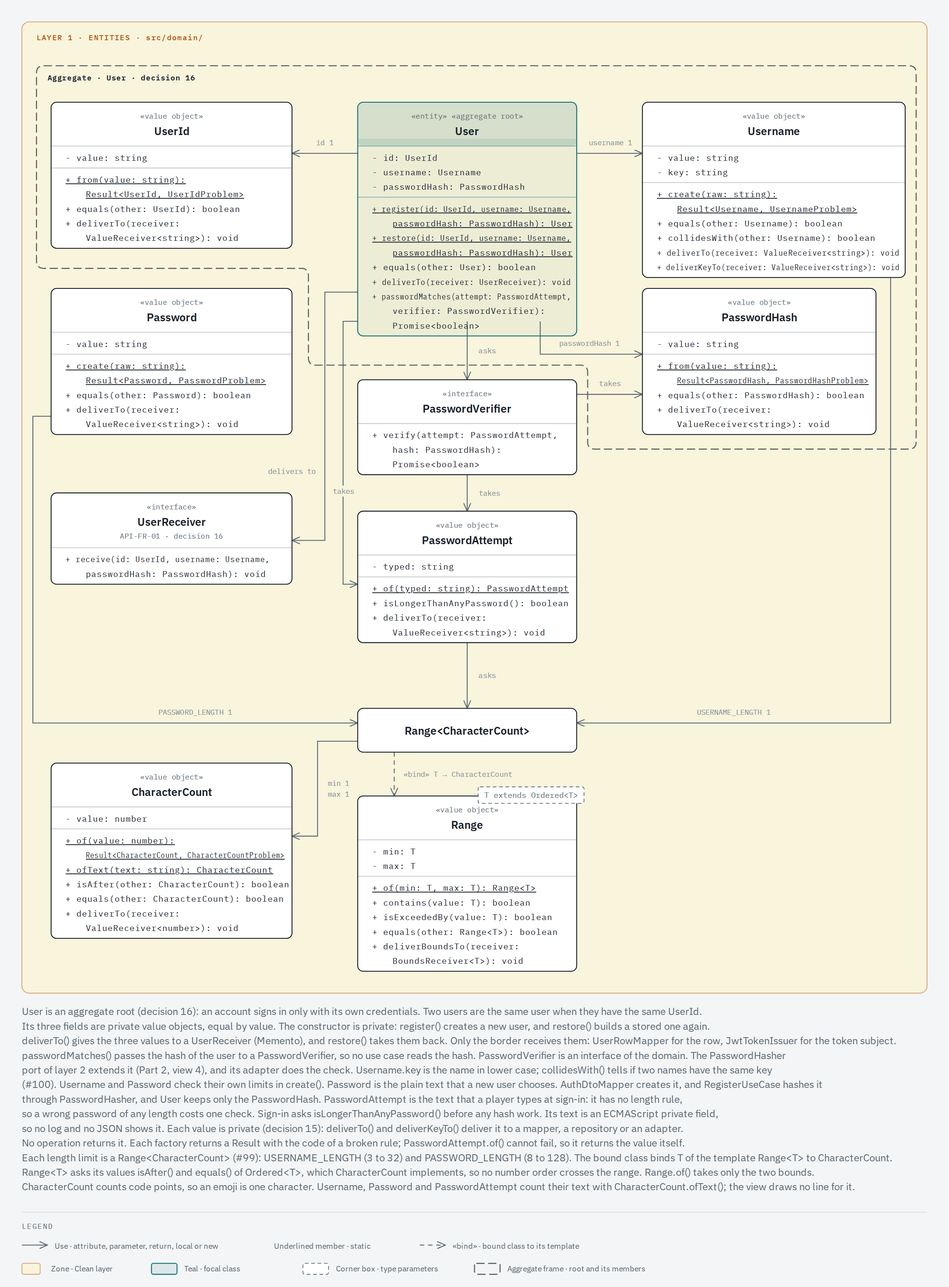
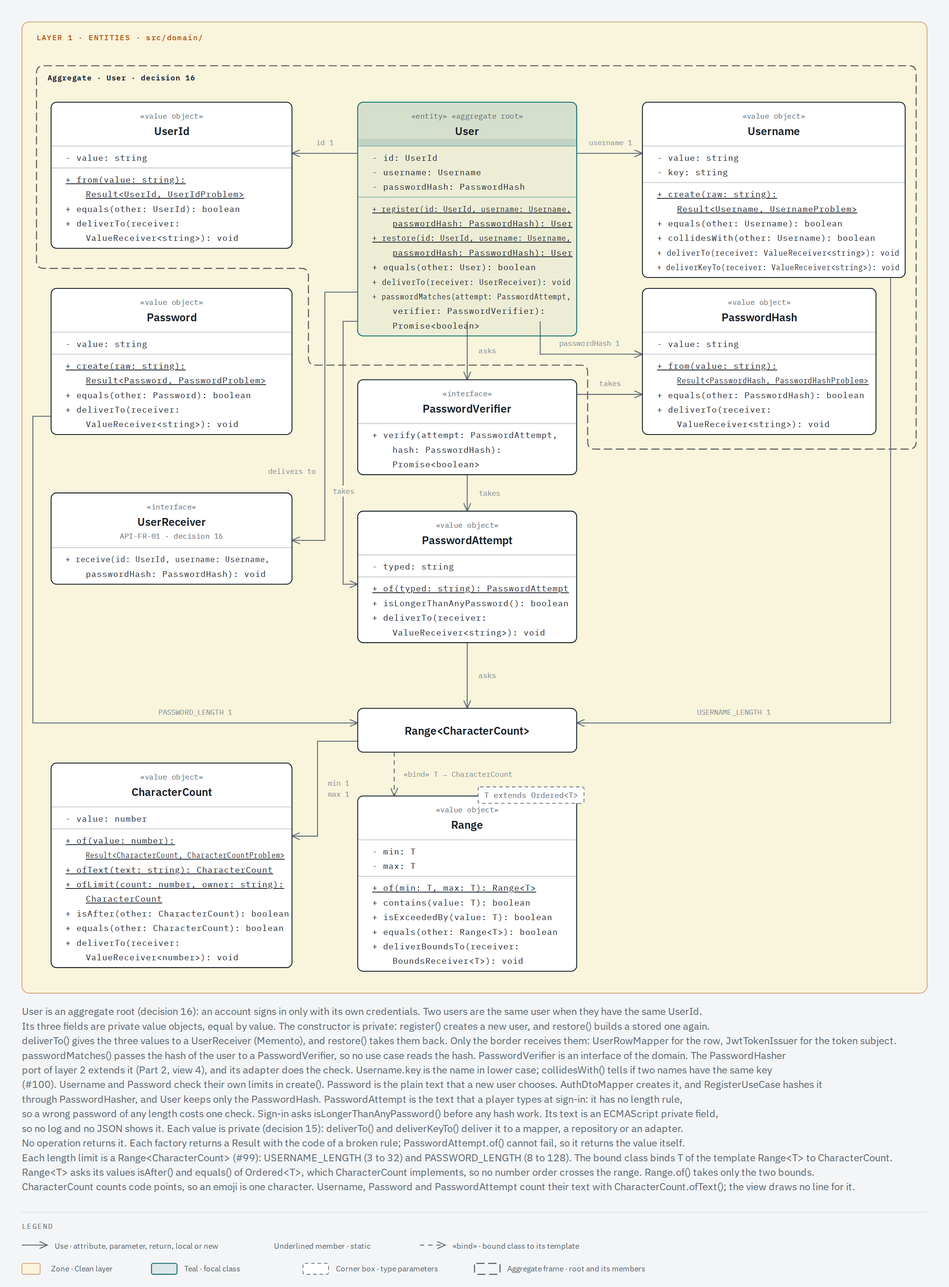
refactor: apply the open review suggestions of the queue of 2026-11-15
CharacterCount.ofLimit() is the one home of the limit helper that
username.ts and password.ts wrote twice. The leaderboard reader builds
its row message prefixes in one place, and SyncProgress drops the
outcome variable that a removed wrapper left. A new e2e test pins the
step by time of the per-level board. httpErrorOf keeps its switch: it
maps two problem kinds since #137.

Closes #142

Changed region(s): [[0.0312, 0.6873, 0.3125, 0.7498]]

diff --git a/docs/architecture/classes/views/domain-3-user.html b/docs/architecture/classes/views/domain-3-user.html
@@ -1119,7 +1119,7 @@
           x="56"
           y="836"
           width="264"
-          height="192"
+          height="224"
           rx="6"
           fill="#ffffff"
           stroke="#17212a"
@@ -1184,16 +1184,36 @@
         >
           + ofText(text: string): CharacterCount
         </text>
-        <text x="72" y="972" fill="#17212a" font-size="9" font-family="'IBM Plex Mono', monospace">
-          + isAfter(other: CharacterCount): boolean
+        <text
+          x="72"
+          y="972"
+          fill="#17212a"
+          font-size="9"
+          font-family="'IBM Plex Mono', monospace"
+          text-decoration="underline"
+        >
+          + ofLimit(count: number, owner: string):
         </text>
-        <text x="72" y="988" fill="#17212a" font-size="9" font-family="'IBM Plex Mono', monospace">
-          + equals(other: CharacterCount): boolean
+        <text
+          x="94"
+          y="988"
+          fill="#17212a"
+          font-size="9"
+          font-family="'IBM Plex Mono', monospace"
+          text-decoration="underline"
+        >
+          CharacterCount
         </text>
         <text x="72" y="1004" fill="#17212a" font-size="9" font-family="'IBM Plex Mono', monospace">
+          + isAfter(other: CharacterCount): boolean
+        </text>
+        <text x="72" y="1020" fill="#17212a" font-size="9" font-family="'IBM Plex Mono', monospace">
+          + equals(other: CharacterCount): boolean
+        </text>
+        <text x="72" y="1036" fill="#17212a" font-size="9" font-family="'IBM Plex Mono', monospace">
           + deliverTo(receiver:
         </text>
-        <text x="94" y="1020" fill="#17212a" font-size="9" font-family="'IBM Plex Mono', monospace">
+        <text x="94" y="1052" fill="#17212a" font-size="9" font-family="'IBM Plex Mono', monospace">
           ValueReceiver&lt;number&gt;): void
         </text>
         <!-- UML template box: the type parameter on the top-right corner -->

diff --git a/src/adapters/persistence/drizzle-leaderboard-reader.ts b/src/adapters/persistence/drizzle-leaderboard-reader.ts
@@ -38,7 +38,7 @@ export class DrizzleLeaderboardReader implements LeaderboardReader {
       );
     // The reader builds the four value objects of each stored result.
     return rows.map((row) => {
-      const stored = `The level_results rows of user ${row.userId}`;
+      const stored = rowsOf('level_results', row.userId);
       return {
         userId: storedValue(UserId.from(row.userId), stored),
         result: storedValue(buildLevelResult(row), stored),
@@ -54,7 +54,7 @@ export class DrizzleLeaderboardReader implements LeaderboardReader {
     // The where clause keeps no null. The check only narrows the type.
     return rows.flatMap(({ userId, highScore }) => {
       if (highScore === null) return [];
-      const stored = `The progress rows of user ${userId}`;
+      const stored = rowsOf('progress', userId);
       return [
         {
           userId: storedValue(UserId.from(userId), stored),
@@ -80,7 +80,7 @@ export class DrizzleLeaderboardReader implements LeaderboardReader {
       .where(eq(levelResults.gameId, receiveValueOf(gameId)))
       .groupBy(levelResults.userId);
     return rows.map(({ userId, stars, levelsCompleted, moves, elapsedMs }) => {
-      const stored = `The level_results rows of user ${userId}`;
+      const stored = rowsOf('level_results', userId);
       const standing = Standing.of(
         storedValue(Stars.of(stars), stored),
         storedValue(LevelsCompleted.of(levelsCompleted), stored),
@@ -93,4 +93,10 @@ export class DrizzleLeaderboardReader implements LeaderboardReader {
       };
     });
   }
+}
+
+// The rows of one user in one table, as storedValue() names them in the
+// message of a broken rule.
+function rowsOf(table: 'level_results' | 'progress', userId: string): string {
+  return `The ${table} rows of user ${userId}`;
 }

diff --git a/test/leaderboard.e2e-spec.ts b/test/leaderboard.e2e-spec.ts
@@ -100,6 +100,29 @@ describe('leaderboard endpoints (API-FR-03, API-FR-06)', () => {
     });
   });
 
+  // #142: DS-4 ranks a level by stars, then moves, then time. Two results
+  // with the same stars and moves rank by time through the wiring: the
+  // faster player ranks first, and the two players share no rank.
+  it('should_rank_the_faster_player_first_when_two_level_results_tie_on_stars_and_moves', async () => {
+    const ada = await signIn('ada');
+    const grace = await signIn('grace');
+    await storeLevels(testApp, levelJson('hexa-fit', 'fit-01'));
+    await sync(ada, { gameId: 'hexa-fit', results: [{ ...FIT_01, elapsedMs: 50000 }] });
+    await sync(grace, { gameId: 'hexa-fit', results: [{ ...FIT_01, elapsedMs: 40000 }] });
+
+    const level = await board(ada, '/leaderboard/hexa-fit/levels/fit-01');
+
+    expect(level.status).toBe(200);
+    expect(level.body).toEqual({
+      gameId: 'hexa-fit',
+      levelId: 'fit-01',
+      entries: [
+        { rank: 1, userId: grace.userId, stars: 3, moves: 12, elapsedMs: 40000 },
+        { rank: 2, userId: ada.userId, stars: 3, moves: 12, elapsedMs: 50000 },
+      ],
+    });
+  });
+
   // A board lists only the players who have a result to rank (decision of
   // #82). Fit gives no score, so nothing ranks Fit by score (S3-03).
   it('should_leave_the_fit_high_scores_empty_when_fit_players_sync_only_level_results', async () => {

diff --git a/src/domain/user/username.ts b/src/domain/user/username.ts
@@ -3,23 +3,16 @@ import { err, ok, type Result } from '../shared/result.js';
 import type { ValueReceiver } from '../shared/value-receiver.js';
 import { CharacterCount } from './character-count.js';
 
-// The value of a limit of this file. A limit is a fixed count, so a failed
-// Result is a defect of the code.
-function limit(count: number): CharacterCount {
-  const result = CharacterCount.of(count);
-  if (!result.ok) {
-    throw new RangeError(`A username limit breaks the rule ${result.error}.`);
-  }
-  return result.value;
-}
-
 // 3 to 32 letters, digits, dots, hyphens or underscores. A proposal for
 // team review: API-FR-01 sets no length or character rule. The range
 // delivers its bounds to the OpenAPI limits and the messages of the border.
 // USERNAME_CHARACTERS delivers the allowed characters to the OpenAPI pattern.
 // The HTTP adapter builds the pattern from both, so this module exports no
 // string (#99, #149).
-export const USERNAME_LENGTH = Range.of(limit(3), limit(32));
+export const USERNAME_LENGTH = Range.of(
+  CharacterCount.ofLimit(3, 'username'),
+  CharacterCount.ofLimit(32, 'username'),
+);
 
 // The allowed characters, as one character class of a regular expression.
 // This text is their only home: Username.create() checks it, and

diff --git a/src/application/progress/sync-progress.use-case.ts b/src/application/progress/sync-progress.use-case.ts
@@ -47,7 +47,6 @@ export class SyncProgressUseCase implements SyncProgress {
   async execute(request: SyncProgressRequest): Promise<Result<PlayerProgress, ProgressProblem>> {
     const { score, results } = request;
     const key = ProgressKey.of(request.userId, request.gameId);
-    let outcome: Result<PlayerProgress, ProgressProblem> | undefined;
     const saved = await this.progress.update(key, (stored) => {
       // The use case reads the Clock under the lock, so the instants follow
       // the order of the saves. The aggregate keeps updatedAt from moving
@@ -60,15 +59,15 @@ export class SyncProgressUseCase implements SyncProgress {
       for (const result of results) {
         progress.recordLevel(result, at);
       }
-      outcome = ok(progress);
       return progress;
     });
     if (!saved.ok) {
       return err({ kind: saved.error });
     }
-    if (outcome === undefined) {
-      throw new Error('ProgressRepository.update() must run the change.');
+    // The change never returns null, so a saved progress is always there.
+    if (saved.value === null) {
+      throw new Error('ProgressRepository.update() must save the change.');
     }
-    return outcome;
+    return ok(saved.value);
   }
 }

diff --git a/test/unit/domain/character-count.spec.ts b/test/unit/domain/character-count.spec.ts
@@ -41,6 +41,30 @@ describe('CharacterCount', () => {
     expect(deliveredBy(counted)).toEqual([value]);
   });
 
+  // #142: a limit of the code is a fixed count, such as a bound of
+  // USERNAME_LENGTH. Username and Password build their limits here.
+  it.each([0, 3, 128])('should_deliver_the_count_when_a_limit_is_a_valid_count', (value) => {
+    const limit = CharacterCount.ofLimit(value, 'username');
+
+    expect(limit).toBeInstanceOf(CharacterCount);
+    expect(deliveredBy(limit)).toEqual([value]);
+  });
+
+  // A limit that breaks the rule is a defect of the code (decision 11), so
+  // the factory throws. The message names the owner of the limit.
+  it.each([
+    [-1, 'username'],
+    [1.5, 'password'],
+  ])(
+    'should_throw_a_range_error_that_names_the_owner_when_a_limit_breaks_the_rule',
+    (value, owner) => {
+      const build = () => CharacterCount.ofLimit(value, owner);
+
+      expect(build).toThrow(RangeError);
+      expect(build).toThrow(`A ${owner} limit breaks the rule invalid-character-count.`);
+    },
+  );
+
   it('should_be_after_another_count_only_when_it_is_greater', () => {
     expect(count(9).isAfter(count(8))).toBe(true);
     expect(count(8).isAfter(count(9))).toBe(false);

diff --git a/src/domain/user/password.ts b/src/domain/user/password.ts
@@ -3,20 +3,13 @@ import { err, ok, type Result } from '../shared/result.js';
 import type { ValueReceiver } from '../shared/value-receiver.js';
 import { CharacterCount } from './character-count.js';
 
-// The value of a limit of this file. A limit is a fixed count, so a failed
-// Result is a defect of the code.
-function limit(count: number): CharacterCount {
-  const result = CharacterCount.of(count);
-  if (!result.ok) {
-    throw new RangeError(`A password limit breaks the rule ${result.error}.`);
-  }
-  return result.value;
-}
-
 // The length of a password in characters: 8 to 128 code points. The upper
 // limit keeps the hash work of one request bounded. Both limits are a
 // proposal for team review: API-FR-01 sets no rule.
-export const PASSWORD_LENGTH = Range.of(limit(8), limit(128));
+export const PASSWORD_LENGTH = Range.of(
+  CharacterCount.ofLimit(8, 'password'),
+  CharacterCount.ofLimit(128, 'password'),
+);
 
 export type PasswordProblem = 'invalid-password';
 

diff --git a/src/domain/user/character-count.ts b/src/domain/user/character-count.ts
@@ -21,6 +21,19 @@ export class CharacterCount implements Ordered<CharacterCount> {
       : err('invalid-character-count');
   }
 
+  // The count of a limit of the code, such as a bound of USERNAME_LENGTH. A
+  // limit is a fixed count, so a count that breaks the rule is a defect of
+  // the code, and the factory throws a RangeError (decision 11). The message
+  // names the owner of the limit. Username and Password build their limits
+  // here, so the check has one home (#142).
+  static ofLimit(count: number, owner: string): CharacterCount {
+    const result = CharacterCount.of(count);
+    if (!result.ok) {
+      throw new RangeError(`A ${owner} limit breaks the rule ${result.error}.`);
+    }
+    return result.value;
+  }
+
   // Counts the code points of a text, not its UTF-16 units. Every text has a
   // count, so this factory cannot fail and returns the count itself.
   // Array.from gives the same code points as [...text]. The lint rule

diff --git a/docs/architecture/classes.md b/docs/architecture/classes.md
@@ -229,7 +229,7 @@ These rules say how the domain model must be. They apply to every class of `src/
 15. **Closed values of the value objects (built, [#90](https://github.com/Hexablock-Suite/hexablock-api/issues/90)).** A value object keeps its datum private and delivers it to a receiver. No operation returns the datum. Fifteen data are private: the `value` of `UserId`, `GameId`, `PasswordHash`, `Password`, `LevelId`, `Stars`, `Moves`, `ElapsedTime`, `Score` and `CharacterCount`, the `value` and the `key` of `Username`, the `min` and the `max` of `Range`, and the `typed` text of `PasswordAttempt`. `ValueReceiver<T>` in `src/domain/shared` is the receiver: `receive(value: T): void`. Each value object has `deliverTo(receiver: ValueReceiver<T>): void`, the mirror of its factory method; `UserId` delivers the lower case form. Since #80, a composite value of the level schema, and `LevelDefinition` itself, delivers a record of its parts in the fields of its factory, and each part delivers its own value (decision 6). `Username` also has `deliverKeyTo(receiver)` for its key. `Username.collidesWith(other)` is the business name of the rule of [#62](https://github.com/Hexablock-Suite/hexablock-api/issues/62): two names collide when their keys are equal, so they differ at most in letter case ([#100](https://github.com/Hexablock-Suite/hexablock-api/issues/100)). No domain service holds the rule: the comparison of two names fits in the value object (class of 2026-11-13), and the uniqueness over all the users stays at the repository (decision 16). `InMemoryUserRepository` asks `collidesWith()`, and `DrizzleUserRepository` compares the delivered key in SQL. The contract suite of the `UserRepository` port, `test/support/user-repository.contract.ts`, runs against both on the same pairs of names, so the SQL cannot disagree with the domain without a failing test. View 1.3 draws `collidesWith()`. `Range` has `deliverBoundsTo(receiver: BoundsReceiver<T>)`, which gives both bounds to the OpenAPI limits and the messages of the HTTP adapter, and `isExceededBy(value)`, which `PasswordAttempt.isLongerThanAnyPassword()` asks. Each bound of a credential range is a `CharacterCount`, which delivers its number (decision 17). Only the border receives a value: the row mappers, the repositories, `ProgressDtoMapper`, `AuthDtoMapper` and `CredentialsDto` in layer 3, and `JwtTokenIssuer` and `ScryptPasswordHasher` in layer 4. Where an adapter needs the value as an expression (a row field, an SQL filter, the lock key, the token subject), it calls a helper of `src/adapters/received.ts`: `receiveValueOf()`, `receiveKeyOf()`, `receiveBoundsOf()`, `receiveBoundValuesOf()`, which receives the number of each bound of a credential range (decision 17), `receiveLevelResultOf()`, which receives the four values that a `LevelResult` delivers (decision 3), or `receiveProgressKeyOf()`, which receives the `userId` and the `gameId` that a `ProgressKey` delivers (decision 2). `receiveProgressOf()` and `receiveUserOf()` receive the parts that an aggregate delivers (decisions 2 and 16). Each helper runs one delivery and gives what the receiver got. The helpers live in layer 3, so the domain and the application cannot import them. Inside the domain, an object compares with `equals()` or a business operation and never calls a delivery. A use case never opens a domain object, and the ports carry domain types: `PasswordHasher.hash()` takes a `Password` and returns a `PasswordHash`, and `verify()` takes the hash as a `PasswordHash`, so the only read of the password text stays in `ScryptPasswordHasher`. `verify()` takes the typed text as a `PasswordAttempt` ([#98](https://github.com/Hexablock-Suite/hexablock-api/issues/98)): sign-in checks a text that is not a `Password`, because `Password.create()` rejects a text shorter than 8 code points and a wrong password can be that short. So `PasswordAttempt` has no length rule: `PasswordAttempt.of()` takes any text and cannot fail, so it returns the value object itself, as `LevelResult.of()` does. `isLongerThanAnyPassword()` tells if the attempt is longer than any password, and sign-in asks it before any hash work, so the hash work of one request stays bounded. It counts code points through `CharacterCount.ofText()`, as `Password.create()` does (decision 17). The attempt keeps its text in an ECMAScript private field, not a TypeScript one, so `JSON.stringify()`, `util.inspect()` and a logger show no text. A secret stays closed at run time in the same way ([#138](https://github.com/Hexablock-Suite/hexablock-api/issues/138)): `Password` and `PasswordHash` also keep their text in an ECMAScript private field (`#value`). A TypeScript `private` field holds only for the compiler. At run time it is an own property of the object, so `JSON.stringify()` and a console inspection show it. A `#` field is no property of the object, so `JSON.stringify()` of a `Password`, a `PasswordHash`, a `User` or a `RegisterUserRequest` shows no typed text and no hash. A `User` holds its `PasswordHash`, so the user needs no change of its own. A structural comparison of a test, such as `toEqual()`, does not see a `#` field either, so a test compares these values with `equals()` or with the values that they deliver. The class views draw a `#` field with the private marker `-`, as any other private field. `ScryptPasswordHasher` receives the text by delivery, as it receives the text of a `Password`. The name `PasswordAttempt` is provisional until the team reviews it. The lint rule `hexablock/no-delivery-call` reports every use of `deliverTo`, `deliverKeyTo` and `deliverBoundsTo` in `src/domain` and `src/application`, and `test/gates/delivery.gate.spec.ts` checks the rule (rule R-no-delivery-call of `AGENTS.md`). Why: the professor's rule of 2026-11-09 forbids getters and public fields with readers in the domain model, and asks that an object implements its operations. An operation that returns the datum does what a getter does, so the datum is delivered and never returned (design decision of 2026-11-10). The receiver interface is a technical device, and a technical name is acceptable there (classes of 2026-11-02 and 2026-11-09). A delivery passes a primitive to the receiver across a public signature, so it is the second exception of the primitive rule, after the boolean; `src/domain/README.md` lists it with its reason. A delivery is not a getter (design decision of 2026-11-15). A getter returns the datum to the caller. A delivery returns nothing: the object pushes the datum to a receiver, and only the border receives it. The name `deliverTo` stays provisional until the professor names the operation. Views 1.1, 1.3 and 1.4 draw the private values and the delivery operations, and views 2.4, 3.4 and slice 2 draw the new `PasswordHasher` signature. View 1.3 and slice 2 draw `PasswordAttempt`, and views 3.4 and slice 2 draw `verify(attempt, hash)`.
 16. **`User` as an aggregate root that delivers its parts (built, [#91](https://github.com/Hexablock-Suite/hexablock-api/issues/91), [#96](https://github.com/Hexablock-Suite/hexablock-api/issues/96)).** `User` holds `id`, `username` and `passwordHash` in private fields, and its constructor is private. `User.register(id, username, passwordHash)` creates a new user, and `User.restore(id, username, passwordHash)` builds a stored one again from the value objects that it delivered. `User.deliverTo(receiver: UserReceiver)` gives the three value objects to a receiver of the border in one call, as `PlayerProgress.deliverTo()` does. The values are immutable, so the receiver cannot change the user through them. This is the Memento of decision 2, with the same names as `PlayerProgress`. `User` carries «aggregate root» because it guards one invariant: an account signs in only with its own credentials. Its id, its username and its password hash belong together, the password exists only as a hash, and only the user checks a typed text against its own hash, so no use case reads the hash. The boundary is not bigger. The progress of a player is its own aggregate (decision 2): no rule joins a sync to the credentials, so `PlayerProgress` refers to the user only by the `UserId` of its `ProgressKey` (rule «Reference by identity»). The rule that two users never share a username key ([#62](https://github.com/Hexablock-Suite/hexablock-api/issues/62), [#73](https://github.com/Hexablock-Suite/hexablock-api/issues/73)) covers every user, not one: an aggregate that held it would hold all the users, so `isUsernameTaken()` and the unique index on `username_key` hold it at the repository. The boundary is not smaller: a username or a password hash has no meaning without its account and no identity of its own, so each one is a value object inside the user. Its repository follows from the root: sign-up adds the whole user, and sign-in finds the whole user (design decision of 2026-11-09). The value objects guard their own rules, so `register()` and `restore()` check nothing more. Only the border receives the parts: `UserRowMapper` builds the row through `receiveUserOf()` and restores a user from a row, and `JwtTokenIssuer` receives the id for the token subject. No use case reads a part of a `User`. `RegisterUseCase` returns the id that it made. Design decision of 2026-11-10 for sign-in: `User` checks the password. `User.passwordMatches(attempt, verifier)` takes the `PasswordAttempt` that the player typed, passes it with the hash of the user to `PasswordVerifier.verify(attempt, hash)` and gives its answer ([#98](https://github.com/Hexablock-Suite/hexablock-api/issues/98)). `PasswordVerifier` is an interface of the domain, in `src/domain/user`, and the port `PasswordHasher` extends it, so `LoginUseCase` passes the port that it holds. For an unknown username, `LoginUseCase` still runs one `verify()` against the dummy hash, so a wrong name and a wrong password cost the same work. `TokenIssuer.issue()` takes the `User`, not a `UserId`, and the adapter receives the id that the user delivers; `verify()` still returns a `UserId` or `null`, and the token subject is the same text. The other option was a use case that reads the parts of the user to get the hash; the team did not take it, because the use case then opens the user. `PasswordVerifier` is an interface of the domain that the infrastructure implements through the port, and Q10 (class of 2026-10-30) puts every port in the application layer. The class of 2026-11-13 allows it: when the domain needs something that the infrastructure gives, the interface lives in the domain and the implementation lives outside. That is dependency inversion, and it breaks no dependency rule (decision 1). The domain still imports nothing from outside `src/domain`, and `PasswordVerifier` is its first signature with a `Promise`. Why: an entity has no getters and no setters (the professor's rule of 2026-11-09), and only the factory methods of the aggregate build it. View 1.3 and slice 2 draw the private fields, `register()`, `restore()`, `deliverTo()` and `passwordMatches()`; view 1.3 draws `UserReceiver` and `PasswordVerifier`; view 2.4 and slice 2 draw `PasswordHasher` under `PasswordVerifier`; views 2.4 and 3.4 draw `issue(user: User)`.
 
-17. **`Range<T extends Ordered<T>>` over `CharacterCount`, and the username pattern at the border (built, [#99](https://github.com/Hexablock-Suite/hexablock-api/issues/99) and [#149](https://github.com/Hexablock-Suite/hexablock-api/issues/149)).** A range is `Range<T>`, and `T` is a value object that compares itself (classes of 2026-11-06 and 2026-11-14). The credential limits are two `Range<CharacterCount>` values: `USERNAME_LENGTH` (3 to 32) and `PASSWORD_LENGTH` (8 to 128). So `src/domain/` holds no `Range<number>`, and `Range.ofNumbers()` and `Compare<T>` are gone. `CharacterCount` in `src/domain/user/` is the number of characters of a text. `CharacterCount.of()` takes a non-negative safe integer and returns a `Result`: a number that breaks the rule gives the code `invalid-character-count` (rule «One failure mechanism»). `CharacterCount.ofText()` counts the code points of a text, so an emoji is one character. Every text has a count, so `ofText()` cannot fail and returns the value object itself, as `PasswordAttempt.of()` does. `Username.create()`, `Password.create()` and `PasswordAttempt.isLongerThanAnyPassword()` count only through it, so the count of code points has one home. The name `CharacterCount` is provisional until the team reviews it. The issue left two technical choices to the pull request.
+17. **`Range<T extends Ordered<T>>` over `CharacterCount`, and the username pattern at the border (built, [#99](https://github.com/Hexablock-Suite/hexablock-api/issues/99) and [#149](https://github.com/Hexablock-Suite/hexablock-api/issues/149)).** A range is `Range<T>`, and `T` is a value object that compares itself (classes of 2026-11-06 and 2026-11-14). The credential limits are two `Range<CharacterCount>` values: `USERNAME_LENGTH` (3 to 32) and `PASSWORD_LENGTH` (8 to 128). So `src/domain/` holds no `Range<number>`, and `Range.ofNumbers()` and `Compare<T>` are gone. `CharacterCount` in `src/domain/user/` is the number of characters of a text. `CharacterCount.of()` takes a non-negative safe integer and returns a `Result`: a number that breaks the rule gives the code `invalid-character-count` (rule «One failure mechanism»). `CharacterCount.ofText()` counts the code points of a text, so an emoji is one character. Every text has a count, so `ofText()` cannot fail and returns the value object itself, as `PasswordAttempt.of()` does. `CharacterCount.ofLimit(count, owner)` builds a limit of the code, such as a bound of `USERNAME_LENGTH`. A limit is a fixed count, so a count that breaks the rule is a defect of the code, and `ofLimit()` throws a `RangeError` whose message names the owner of the limit (decision 11). `Username` and `Password` build their limits only through it, so the check of a limit has one home ([#142](https://github.com/Hexablock-Suite/hexablock-api/issues/142)). View 1.3 draws it. `Username.create()`, `Password.create()` and `PasswordAttempt.isLongerThanAnyPassword()` count only through it, so the count of code points has one home. The name `CharacterCount` is provisional until the team reviews it. The issue left two technical choices to the pull request.
     - **The order: `Range<T extends Ordered<T>>`.** `Ordered<T>` in `src/domain/shared/` asks a value two questions with a boolean answer, `isAfter(other)` and `equals(other)`. `Range.of(min, max)` takes only the two bounds, and `contains()`, `isExceededBy()` and `equals()` ask the values. Why: the order belongs to the value, so it stays inside the value object that owns it, and a boolean is the stated exception of the primitive rule. No `number` order crosses any signature, and every later `Range<T>` gets the same rule. The other option kept the comparator private to the value object. But `Range` still needs the order of its bounds, so the value object would hand a comparator to the range, and a `number` order would still pass between two classes. `Ordered<T>` is a technical device, as a receiver interface is, so a technical name is correct there (section «Domain design rules»). `Range.of()` still throws a `RangeError` when `min` comes after `max`: the code builds each range from fixed bounds, so that is a defect of the code (decision 11).
     - **The username pattern: the pattern string lives in the HTTP adapter, and the domain delivers its parts.** `CredentialsDto` builds the OpenAPI pattern from two deliveries of the domain: the bounds of `USERNAME_LENGTH` and the allowed characters of `USERNAME_CHARACTERS`. So the limits and the characters each keep one home, in `src/domain/user/username.ts`. Decided on 2026-11-16 on [#139](https://github.com/Hexablock-Suite/hexablock-api/issues/139) and built in [#149](https://github.com/Hexablock-Suite/hexablock-api/issues/149): «The allowed characters of a username get one home, in the domain. The OpenAPI DTO reads them from there, as the length limits already do.» A private constant of the module holds the characters as one character class, `[A-Za-z0-9._-]`. `Username.create()` checks a name against it, and `USERNAME_CHARACTERS`, the one value of the `UsernameCharacters` value object, delivers it with `deliverTo()`. The DTO writes only the anchors and the braces of the limits around the delivered parts. Why a separate object and not a delivery from `Username`: rule R-domain-surface accepts three delivery operations only, `deliverTo`, `deliverKeyTo` and `deliverBoundsTo`, and rule R-no-delivery-call lints only those three (decision 15). A new name, such as `deliverPatternTo`, changes both rules and the lint plugin, and the team owns that change. A static `deliverTo` on `Username` passes both gates, but it has the name and the signature of the delivery of the name. Then `receiveValueOf(Username)` and `receiveValueOf(username)` both compile and give two different texts, and a typo stores the pattern as a name. `receiveValueOf(USERNAME_CHARACTERS)` names its source, as `receiveBoundValuesOf(USERNAME_LENGTH)` does. The exported constant has the type `UsernameCharacters`, not `string`, so the module still exports no primitive. `test/unit/adapters/credentials-dto.spec.ts` checks that the pattern is built from what the domain delivers, that other characters in the domain give another pattern, and that the pattern and `Username.create()` accept the same names. `openapi/openapi.json` and the HTTP messages do not change.
 

diff --git a/AI_USAGE.md b/AI_USAGE.md
@@ -98,6 +98,7 @@ TODO: add one entry per task: date, task, tool, prompt summary, what was kept an
 | 2026-11-17 | #147 let `PUT /levels` replace a stored level row that breaks a rule                | Claude Code | Claude Code with Claude Opus 5.5, as the `odd-worker` writer, wrote the RED tests first: the three read states of the `LevelRepository` contract for the fake and the Drizzle adapter, the version rule over a broken row (lower, equal and unreadable version), the `unavailable-level` log entry of `GetLevelsUseCase` and `NestLogger`, `LevelDefinition.isOlderThan()`, and three e2e tests (`PUT` replaces the broken row, a lower version keeps it, `GET` answers 200 with `unavailable`); then it added the `StoredLevel` union, `ListedLevels`, the new log entry and the optional `unavailable` field, exported `openapi/openapi.json`, wrote decision 19 and the docs, edited four class views, rendered their PNG images, and added the new types to `classes.drawio` by hand. Oscar chose the replacement on #134 and option C for the read on #147; the parent chose the version rule over a broken row. | Pending team review                                                                                                                             |
 | 2026-11-17 | #146 answer 404 for the board of a level that the definitions do not hold           | Claude Code | Claude Code with Claude Opus 5.5, as the `odd-worker` writer, wrote the RED tests first: the `holds()` case of the `LevelRepository` contract for the fake and the Drizzle adapter, the `unknown-level` cases of the `GetLeaderboardUseCase` unit test and an e2e test that asks the three boards of #134 question 1 and expects 404 with the `ErrorDto` body; then it added `holds()` to the port, the adapter and the fake, the failure to the use case and the 404 to `LeaderboardController`, wired the port in `AppModule`, made the tests that ask a level board store the level first, exported `openapi/openapi.json`, wrote decision 20 and API-FR-03 and API-FR-04, edited six class and extensibility views and `classes.drawio`, and rendered the PNG images at scale 2 through the headless shell of Playwright.                                                                                         | Pending team review                                                                                                                             |
 | 2026-11-17 | #148 `ProgressKey.of()` returns the key, not a `Result`                             | Claude Code | Claude Code with Claude Opus 5.5, as the `odd-worker` writer, wrote the RED test first: `ProgressKey.of()` gives a `ProgressKey` equal to a second key of the same user and game, red while the factory returned a `Result`. Then made the factory return the key, removed the unwrap in both progress use cases, the row mapper and the tests, added the decided sentence to the rule «One failure mechanism», rewrote decision 2 and the domain README, and redrew the `ProgressKey` box of two views, their PNG images and `classes.drawio`.                                                                                                                                                                                                                                                                                                                                                                       | Pending team review                                                                                                                             |
+| 2026-11-17 | #142 apply the five open review suggestions of the queue of 2026-11-15              | Claude Code | Claude Code with Claude Opus 5.5, as the `odd-worker` writer, wrote the RED tests first: `CharacterCount.ofLimit()` gives the count of a valid limit and throws a `RangeError` that names the owner, and an e2e test ranks the faster of two level results with equal stars and moves, seen red against a `LevelResult.isBetterThan()` without the step by time. Then moved the limit helper of `Username` and `Password` to `CharacterCount.ofLimit()`, named the rows of `DrizzleLeaderboardReader` in one function, made `SyncProgressUseCase` return what the repository saved, kept `httpErrorOf` because it has two cases, and redrew `CharacterCount` in view 1.3, its PNG image and `classes.drawio`.                                                                                                                                                                                                         | Pending team review                                                                                                                             |
 
 ## Critical Evaluation
 

diff --git a/CHANGELOG.md b/CHANGELOG.md
@@ -12,6 +12,7 @@ Each sprint of the plan in [`hexablock-app/docs/ROADMAP.md`](https://github.com/
 
 ### Changed
 
+- The five open review suggestions of the queue of 2026-11-15 ([#142](https://github.com/Hexablock-Suite/hexablock-api/issues/142)). `CharacterCount.ofLimit()` is the one home of the credential limits of `Username` and `Password`, `DrizzleLeaderboardReader` names its rows in one function, `SyncProgressUseCase` returns what the repository saved, and an e2e test pins the step by time of the board of a level. `httpErrorOf` of `ProgressController` stays a switch: it has two cases since #137.
 - The README section "Design Patterns" (API-NFR-09) ([#21](https://github.com/Hexablock-Suite/hexablock-api/issues/21)). Each pattern row links the source files that implement it and the view of `docs/architecture/classes.md` that draws it. The Decorator row and the AOP section no longer name `TimingAspect` as built.
 - The README no longer says that the code starts in Sprint 1, and `docs/README.md` indexes `layers.md`, `classes.md` and `flows.md` in place of its TODO ([#26](https://github.com/Hexablock-Suite/hexablock-api/issues/26)). The copyright holder and the critical evaluation of `AI_USAGE.md` stay TODO for the team.
 
